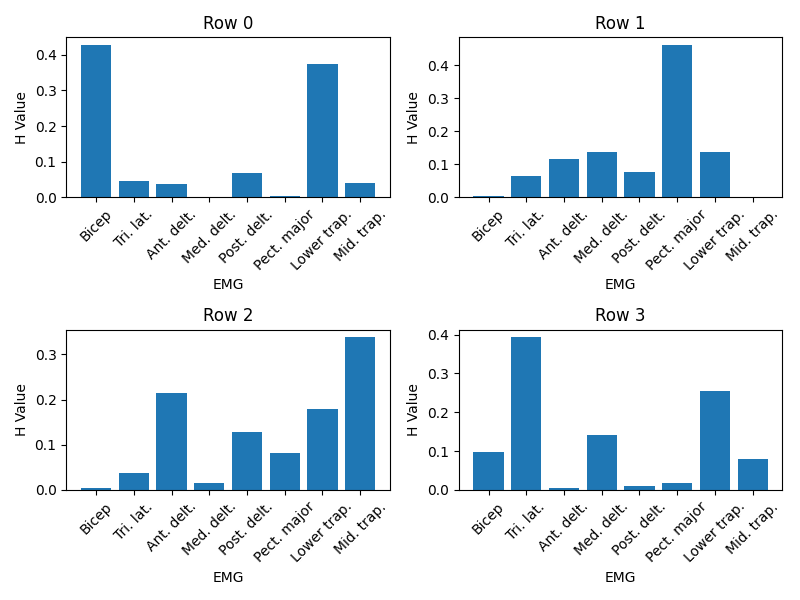
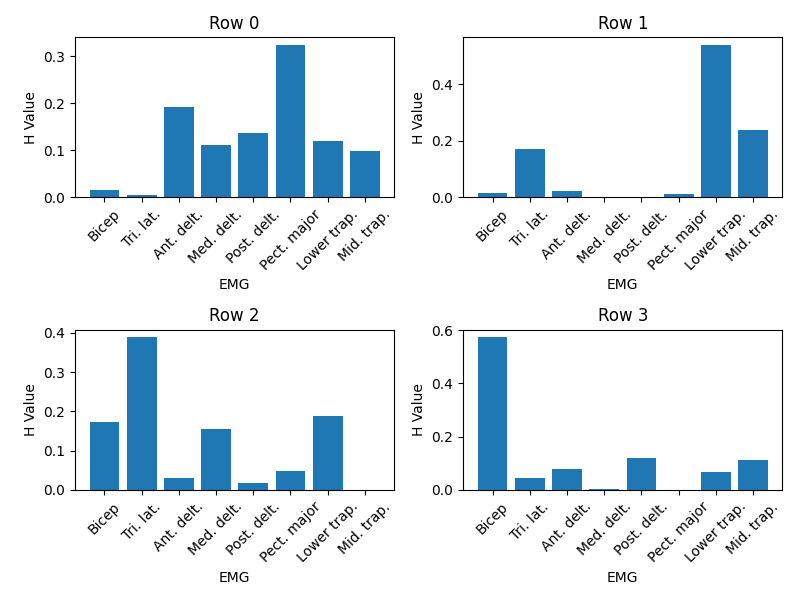
removed extraneous synergy pairs

diff --git a/src/script/find_similar_synergies.py b/src/script/find_similar_synergies.py
@@ -26,7 +26,7 @@ def find_all_Hs(data):
         #all_tasks = ['10%', '30%', '50%']
         # Group by task
         #all_participants = ['c02']
-        all_tasks = ['10%']
+        all_tasks = ['50%']
         for task in all_tasks:
             load_data = match_df.loc[(match_df['Task'] == task) & (match_df['Su'] != 'c06')]
             load_emg = load_data.loc[:, 'Bicep':'MidTrap'].values
@@ -337,7 +337,7 @@ def scalar_prod_similarity_uniform():
     H_ref_rand = normalize(H_ref_rand, norm='l1')
 
     #H_matches_concat = np.concatenate(list(H_matches.values()))  # concatenate all H_refs into one matrix, then find their mean and stdev
-    print("rows in H_matches_concat: " + str(np.shape(H_match)[0]))
+    print("rank: " + str(np.shape(H_match)[0]))
     H_matches_emg_means = np.mean(H_match, axis=0)
     H_matches_emg_stdevs = np.std(H_match, axis=0)
     H_matches_emg_mins = np.min(H_match, axis=0)
@@ -406,6 +406,7 @@ def scalar_prod_similarity_uniform():
     # choose rank number of synergy pairs with the highest scalar product if the syn_pairs_same_participant_and_task >= rank
     rank = np.shape(H_match)[0]
 
+    """
     matches_dict = {} # key: H_ref row. value: (H_match row, scalar product)
     for i in range(0,rank):
         matches_dict[i] = [(pair[0][3], pair[1]) for pair in participant_synergy_pairs if pair[0][1] == i][-1] # pick the match for a given row that appears last since it's in the highest percentile
@@ -416,6 +417,23 @@ def scalar_prod_similarity_uniform():
             W_ref_means = np.mean(W_ref, axis=0)
             W_match_means = np.mean(W_match, axis=0)
             print("Match for row " + str(i) + ": " + str(match_for_i) + ", with H_ref: " + str(H_ref[i,:]) + ", W_ref: " + str(W_ref_means[i]) + ", H_match: " + str(H_match[match_for_i,:]) + ", W_match: " + str(W_match_means[match_for_i]) + ", and scalar product: " + str(matches_dict[i][1]))
+    print("All synergy pairs: " + str(participant_synergy_pairs))
+    """
+    matches_dict = {} # key: H_ref row. value: H_match row
+    H_refs_rows_matched = []
+    H_matches_rows_matched = []
+    W_ref_means = np.mean(W_ref, axis=0)
+    W_match_means = np.mean(W_match, axis=0)
+    for i in range(0, len(participant_synergy_pairs)): # iterate from last element (highest scalar product) to first element (lowest scalar product)
+        current_H_ref_row = participant_synergy_pairs[len(participant_synergy_pairs) - 1 - i][0][1]
+        current_H_match_row = participant_synergy_pairs[len(participant_synergy_pairs) - 1 - i][0][3]
+        current_scalar_prod = participant_synergy_pairs[len(participant_synergy_pairs) - 1 - i][1]
+        if current_H_ref_row not in H_refs_rows_matched and current_H_match_row not in H_matches_rows_matched:
+            H_refs_rows_matched.append(current_H_ref_row)
+            H_matches_rows_matched.append(current_H_match_row)
+            matches_dict[current_H_ref_row] = current_H_match_row
+            print("Match for H_ref row " + str(current_H_ref_row) + ": H_match row " + str(current_H_match_row) + ", with H_ref: " + str(np.round(H_ref[current_H_ref_row,:], 3)) + ", W_ref: " + str(np.round(W_ref_means[current_H_ref_row], 3)) + ", H_match: " + str(np.round(H_match[current_H_match_row,:], 3)) + ", W_match: " + str(np.round(W_match_means[current_H_match_row], 3)) + ", and scalar product: " + str(np.round(current_scalar_prod, 3)))
+
 
 
     #if rank < len(syn_pairs_same_participant_and_task):
